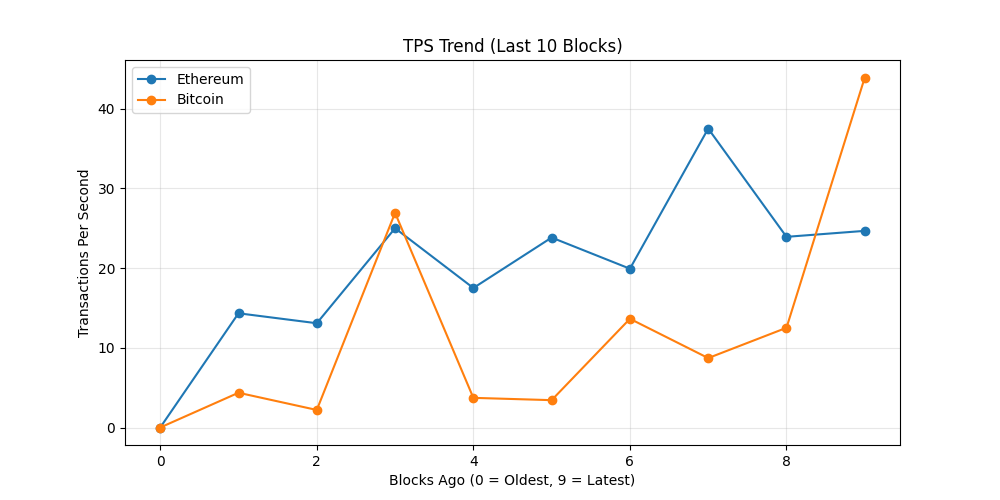
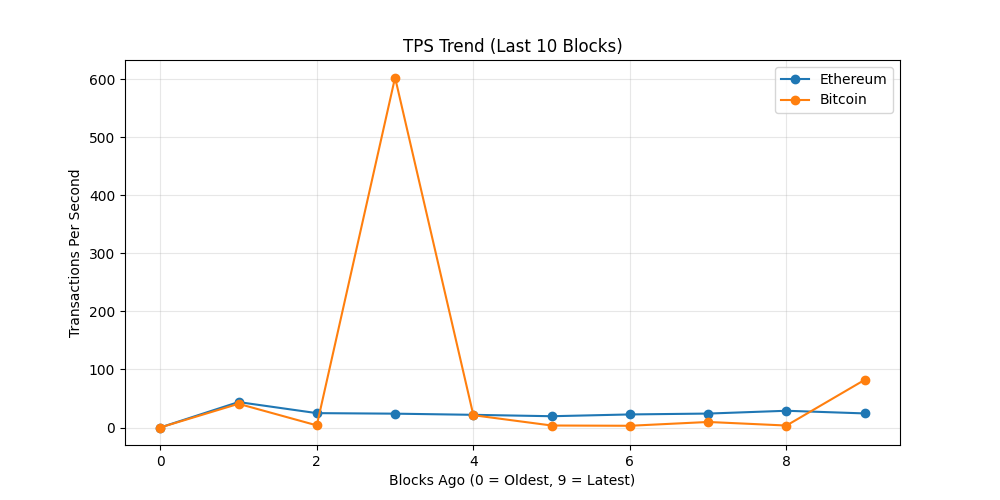
chore: update on-chain dashboard

diff --git a/README.md b/README.md
@@ -19,7 +19,7 @@ The README itself acts as the dashboard and is regenerated automatically on a 6 
 demonstrating a production-style, infrastructure-focused observability workflow rather
 than a traditional UI-driven approach.
 
-_Last updated: 2026-04-24 08:21 UTC_
+_Last updated: 2026-04-24 14:05 UTC_
 
 ## API Usage (GetBlock.io)
 - Calls used: **24**
@@ -27,8 +27,8 @@ _Last updated: 2026-04-24 08:21 UTC_
 ## Network Metrics
 | Chain | Block Height | TX Count | TPS (10 blk avg) | Block Util | Avg Fee |
 |------|-------------|----------|------------------|------------|---------|
-| Ethereum | 24948592 | 296 | 24.67 | 57.61% | 0.3 Gwei |
-| Bitcoin | 946415 | 6631 | 43.91 | 99.9% | N/A |
+| Ethereum | 24950310 | 291 | 24.25 | 46.55% | 2.0 Gwei |
+| Bitcoin | 946454 | 5586 | 82.15 | 99.9% | N/A |
 
 ## Visuals
 ### Transactions Trend
@@ -43,11 +43,9 @@ _Last updated: 2026-04-24 08:21 UTC_
 ## Whale Alerts (latest block)
 - Transaction hashes are truncated for readability.
 - Full hashes are available in `dashboards/metrics.json`
-- Bitcoin | 117.43 BTC | `9e78318fa6a5…`
-- Bitcoin | 308.99 BTC | `bc3d4f6dfffa…`
-- Bitcoin | 105.81 BTC | `1ccff5b61b2d…`
-- Bitcoin | 959.12 BTC | `6ce2a15d832c…`
-- Bitcoin | 355.31 BTC | `09e3b66a297f…`
+- Bitcoin | 140.16 BTC | `ed01ac2f7f73…`
+- Bitcoin | 105.98 BTC | `181f740dd13c…`
+- Bitcoin | 748.62 BTC | `123d6d4caedb…`
 
 ## Run locally
 
